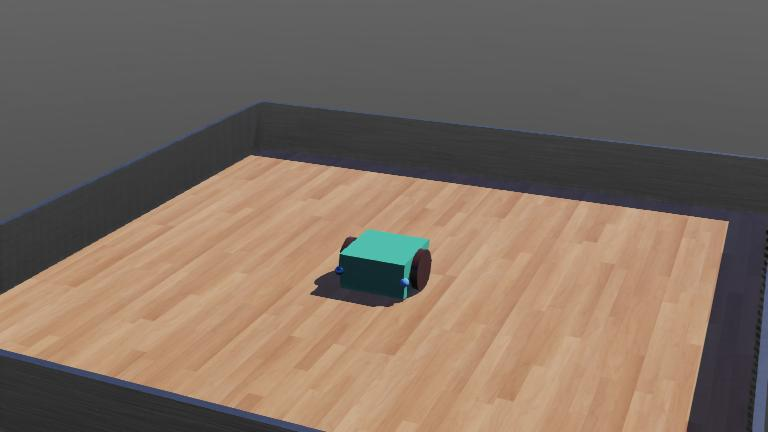
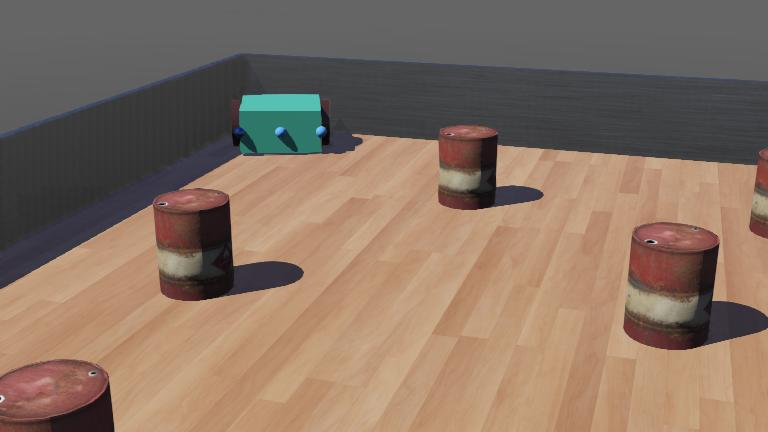
Added Obstacles and setup controller
Code for moving the motors and enabling the sensors is written and third sensor is added at the center, also added obstacles

diff --git a/controllers/first_obd_controller/first_obd_controller.py b/controllers/first_obd_controller/first_obd_controller.py
@@ -1,0 +1,24 @@
+# Import the necessary Webots libraries
+from controller import Robot, Motor, TouchSensor
+
+# Create an instance of the Robot class
+robot = Robot()
+
+# Get handles to the robot's motors and touch sensors
+lf_motor = robot.getDevice("right_wheel")
+rt_motor = robot.getDevice("left_wheel")
+
+ds_left = robot.getDevice("left_ts")
+ds_right = robot.getDevice("right_ts")
+ds_cent = robot.getDevice("center_ts")
+
+ds_left.enable(64)
+ds_right.enable(64)
+ds_cent.enable(64)
+
+# Set the velocity of the motors
+lf_motor.setPosition(float('inf'))
+rt_motor.setPosition(float('inf'))
+
+# Set initial velocity
+velocity = 1.2
